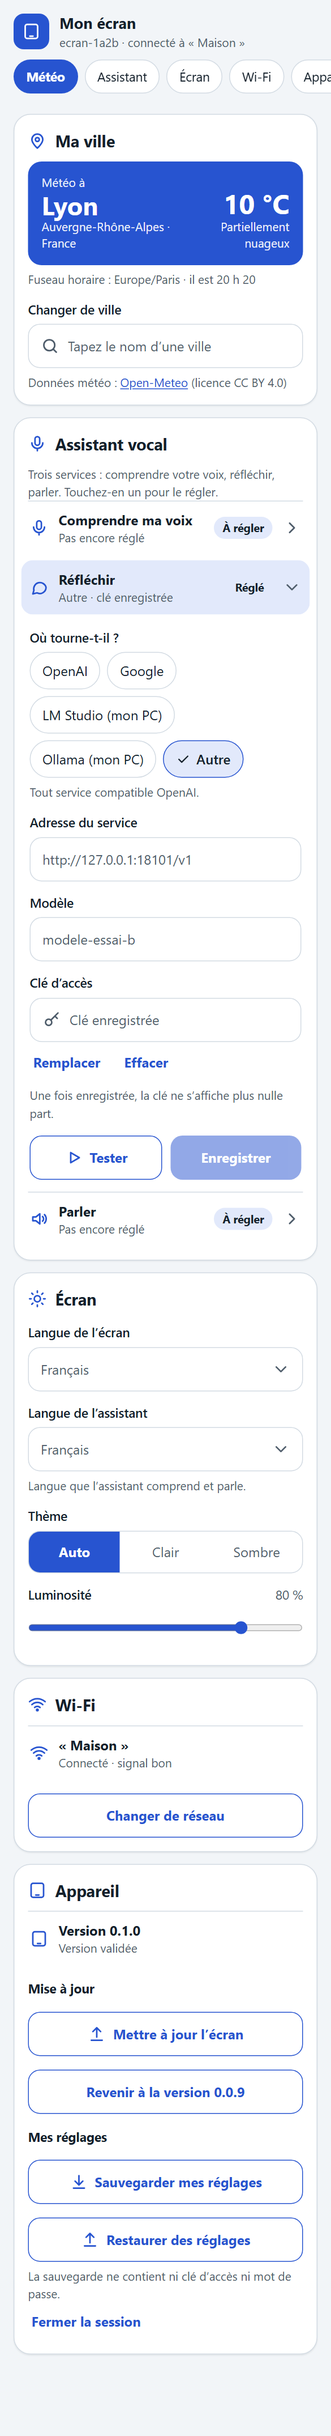
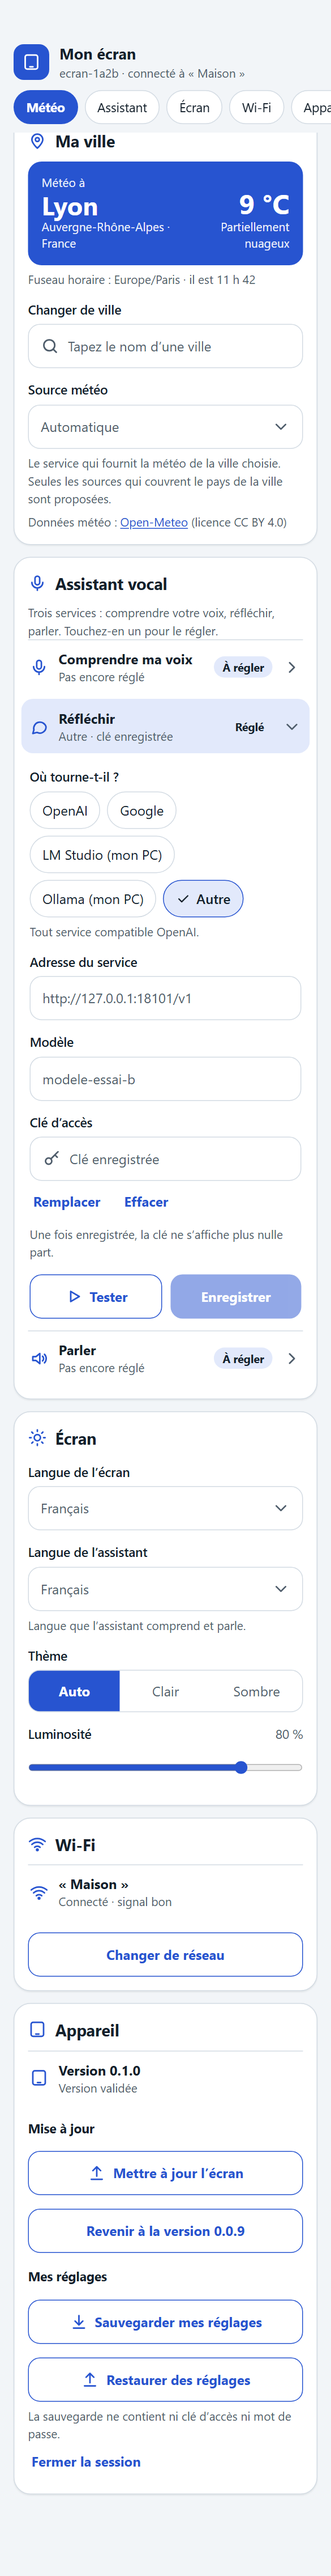
feat(web): « Source météo » sur la page téléphone, même liste filtrée par pays que l'écran
- web/app/app.js : sous la ville, un sélecteur dont la liste vient de `/api/location`
  (`sources_meteo`), « Automatique » en tête, le nom du service en clair ; changer la source envoie
  `source_meteo` seul ; changer de ville met la liste à jour et dit si la source a été remise sur
  « Automatique » ; attribution (Open-Meteo, CC BY 4.0) et nom du modèle choisi.
- web/faux-serveur/serveur.mjs : le faux appareil sert la même liste et les mêmes refus (422) que le
  firmware.
- web/tests/parcours.py : les vérifications de la source (liste filtrée, refus, retour sur
  « Automatique », message effacé au choix suivant). Parcours complet contre le faux appareil le
  07/11/2026 : 136/136 vérifications OK, poids gzip 17 640 octets pour un budget de 30 720.
- web/captures : 04b (NOAA), 04c (KNMI), 04d (retour sur « Automatique ») ; les autres captures
  sont régénérées par le parcours (la carte « Ville » est plus haute, tout le reste descend) ;
  poids.json.

Carte: aucune
Teste-sur: non testé sur carte (faux appareil sur le PC, Chromium sur Playwright, 07/11/2026 ; la page servie par le vrai firmware n'a pas été essayée)

diff --git a/web/app/app.js b/web/app/app.js
@@ -233,6 +233,23 @@ function carteVille() {
   /* Attribution exigée par la licence CC BY 4.0 des données Open-Meteo : toujours visible, dans la langue de la page. */
   const attribution = h('p', { class: 'aide attribution', id: 'attribution' },
     tNoeuds('meteo.attribution', { lien: h('a', { href: 'https://open-meteo.com/', target: '_blank', rel: 'noopener', text: 'Open-Meteo' }) }));
+  /* Source de la météo : la liste vient de l'appareil et ne contient que les sources qui couvrent le pays de la ville (ADR-0010) ;
+     « Automatique » est toujours là. Le modèle choisi est nommé à côté de l'attribution, là où la source est montrée. */
+  const modele = h('span', { id: 'attribution-modele' });
+  attribution.append(modele);
+  const source = h('select', { id: 'source-meteo', 'aria-describedby': 'source-meteo-aide', onchange: () => choisirSource(source.value) });
+  const sourceRetablie = retour('info', t('source.retablie'));
+  sourceRetablie.id = 'source-retablie';
+  const champSource = h('div', { class: 'f', id: 'source-champ' },
+    h('label', { class: 'lab', for: 'source-meteo', text: t('source.titre') }), h('div', { class: 'champ' }, source, ico('chevd')),
+    h('p', { class: 'aide', id: 'source-meteo-aide', text: t('source.aide') + ' ' + t('source.filtre') }), sourceRetablie);
+  const majSource = () => {
+    const z = S.zone, liste = z && Array.isArray(z.sources_meteo) ? z.sources_meteo : [];
+    champSource.hidden = !liste.length;
+    source.replaceChildren(...liste.map((s) => h('option', { value: s.id, text: s.nom, selected: s.id === z.source_meteo })));
+    sourceRetablie.hidden = !(z && z.source_meteo_retablie);
+    modele.textContent = z && z.source_meteo && z.source_meteo !== 'auto' ? ' · ' + t('source.modele', { modele: z.source_meteo_nom }) : '';
+  };
   majVille = () => {
     const z = S.zone, def = z && z.definie !== false;
     etiquette.textContent = def ? t('ville.changer') : t('ville.choisir');
@@ -276,12 +293,27 @@ function carteVille() {
     retours.replaceChildren(q && q.length < 3 ? h('p', { class: 'aide', text: t('ville.min3') }) : '');
     if (q.length >= 3) minuteur = setTimeout(() => chercher(q), 350);
   });
+  /* Changer la source se passe comme changer de ville : l'appareil efface la météo gardée et en redemande une. */
+  const choisirSource = async (id) => {
+    source.disabled = true;
+    try {
+      S.zone = await api('PUT', '/api/location', { source_meteo: id });
+      retours.replaceChildren();
+      S.meteo = null; majVille();
+      toast(t('source.enregistree', { source: S.zone.source_meteo_nom }));
+      chargerMeteo(1);
+    } catch (e) {
+      retours.replaceChildren(retour('err', msg(e)));
+    }
+    source.disabled = false;
+    majSource(); /* la liste montre toujours ce que l'appareil a vraiment retenu */
+  };
   const choisir = async (lieu) => {
     liste.querySelectorAll('button').forEach((b) => { b.disabled = true; });
     try {
       S.zone = await api('PUT', '/api/location', lieu);
       champ.value = ''; liste.replaceChildren(); liste.hidden = true; retours.replaceChildren();
-      S.meteo = null; majVille();
+      S.meteo = null; majVille(); majSource();
       toast(t('ville.enregistree', { ville: S.zone.nom }));
       chargerMeteo(1);
     } catch (e) {
@@ -292,7 +324,8 @@ function carteVille() {
   clearInterval(horloge);
   horloge = setInterval(majVille, 30000);
   majVille();
-  return carte('ville', 'pin', t('ville.titre'), hero, aide, h('div', { class: 'f' }, etiquette, h('div', { class: 'champ' }, ico('search'), champ)), retours, liste, attribution);
+  majSource();
+  return carte('ville', 'pin', t('ville.titre'), hero, aide, h('div', { class: 'f' }, etiquette, h('div', { class: 'champ' }, ico('search'), champ)), retours, liste, champSource, attribution);
 }
 
 /* ---------- assistant : trois services ---------- */

diff --git a/web/tests/parcours.py b/web/tests/parcours.py
@@ -240,6 +240,66 @@ def main():
                 verifier("libellé = table WMO du noyau pour le code direct", page.locator(".hero .temp small").inner_text() == libelle, libelle)
             etape("Ville : choisir « Lyon »", t_ville, page)
 
+            def t_source():
+                cat = catalogue("fr")
+                champ = page.locator("#ville-q")
+                liste_js = "[...document.querySelectorAll('#source-meteo option')].map((o) => [o.value, o.textContent])"
+                expect(page.locator("#source-champ")).to_be_visible()
+                verifier("source météo : le titre vient du catalogue", page.locator("label[for=source-meteo]").inner_text() == cat["source.titre"])
+                options = page.evaluate(liste_js)
+                verifier("source météo : à Lyon, « Automatique » puis le modèle mondial seulement", options == [["auto", "Automatique"], ["noaa", "NOAA GFS"]], str(options))
+                verifier("source météo : « Automatique » au départ", page.locator("#source-meteo").input_value() == "auto")
+                code, zone = api(page, "GET", "/api/location")
+                verifier("source météo : l'API donne la même liste que la page", [s["id"] for s in zone["sources_meteo"]] == [o[0] for o in options], str(zone.get("sources_meteo")))
+                code, erreur = api(page, "PUT", "/api/location", {"source_meteo": "knmi"})
+                verifier("source météo : un service qui ne couvre pas la France est refusé", code == 422 and erreur["erreur"]["id"] == "source_indisponible" and erreur["erreur"]["champ"] == "source_meteo", str(erreur))
+                code, erreur = api(page, "PUT", "/api/location", {"source_meteo": "n_importe_quoi"})
+                verifier("source météo : un identifiant inconnu est refusé", code == 422 and erreur["erreur"]["id"] == "source_inconnue", str(erreur))
+                verifier("source météo : les refus n'ont rien changé", api(page, "GET", "/api/location")[1]["source_meteo"] == "auto")
+                # choisir le modèle mondial depuis la page
+                page.locator("#source-meteo").select_option("noaa")
+                expect(page.locator("#toast")).to_contain_text("NOAA GFS")
+                code, zone = api(page, "GET", "/api/location")
+                verifier("source météo : NOAA GFS enregistrée, la ville n'a pas bougé", zone["source_meteo"] == "noaa" and zone["nom"] == "Lyon", str(zone))
+                expect(page.locator("#attribution-modele")).to_contain_text(cat["source.modele"].replace("{modele}", "NOAA GFS"))
+                expect(page.locator(".hero .temp b")).to_have_text(re.compile(r"-?\d+\s°C"), timeout=20000)
+                verifier("source météo : la météo revient avec le modèle choisi", True)
+                page.screenshot(path=str(CAPTURES / "04b-source-noaa.png"))
+                # Amsterdam : le service néerlandais devient proposé
+                champ.fill("")
+                champ.press_sequentially("Amsterdam", delay=60)
+                amsterdam = page.locator(".lieu").filter(has_text="Pays-Bas").first
+                expect(amsterdam).to_be_visible(timeout=20000)
+                amsterdam.click()
+                expect(page.locator(".hero .ville")).to_have_text("Amsterdam")
+                options = page.evaluate(liste_js)
+                verifier("source météo : à Amsterdam, KNMI s'ajoute avant le modèle mondial", [o[0] for o in options] == ["auto", "knmi", "noaa"], str(options))
+                verifier("source météo : NOAA GFS gardée, elle couvre aussi les Pays-Bas", page.locator("#source-meteo").input_value() == "noaa" and page.locator("#source-retablie").is_hidden())
+                page.locator("#source-meteo").select_option("knmi")
+                expect(page.locator("#toast")).to_contain_text("KNMI")
+                expect(page.locator("#attribution-modele")).to_contain_text(cat["source.modele"].replace("{modele}", "KNMI"))
+                expect(page.locator(".hero .temp b")).to_have_text(re.compile(r"-?\d+\s°C"), timeout=20000)
+                page.screenshot(path=str(CAPTURES / "04c-source-knmi.png"))
+                # retour à Lyon : KNMI ne couvre pas la France, la page revient sur « Automatique » ET le dit
+                champ.fill("")
+                champ.press_sequentially("Lyon", delay=60)
+                page.locator(".lieu").filter(has_text="Auvergne-Rhône-Alpes").filter(has_text="France").first.click()
+                expect(page.locator(".hero .ville")).to_have_text("Lyon")
+                expect(page.locator("#source-retablie")).to_be_visible()
+                verifier("source météo : le retour sur « Automatique » est dit, pas muet", cat["source.retablie"] in norm(page.locator("#source-retablie").inner_text()), page.locator("#source-retablie").inner_text())
+                verifier("source météo : la liste montre « Automatique » et l'API aussi", page.locator("#source-meteo").input_value() == "auto" and api(page, "GET", "/api/location")[1]["source_meteo_retablie"] is True)
+                page.screenshot(path=str(CAPTURES / "04d-source-retablie.png"))
+                # choisir une source efface le message ; on remet « Automatique » pour la suite du parcours
+                page.locator("#source-meteo").select_option("noaa")
+                expect(page.locator("#source-retablie")).to_be_hidden()
+                page.locator("#source-meteo").select_option("auto")
+                expect(page.locator("#toast")).to_contain_text("Automatique")
+                code, zone = api(page, "GET", "/api/location")
+                verifier("source météo : remise sur « Automatique », message effacé", zone["source_meteo"] == "auto" and zone["source_meteo_retablie"] is False and page.locator("#attribution-modele").inner_text() == "", str(zone))
+                verifier_attribution(page, "fr", "après les changements de source")
+                sans_null(page, "source météo")
+            etape("Source météo : liste par pays, choix, refus, retour automatique", t_source, page)
+
             def t_services():
                 ouvrir(page, "Réfléchir")
                 page.get_by_role("radio", name="Autre").click()
